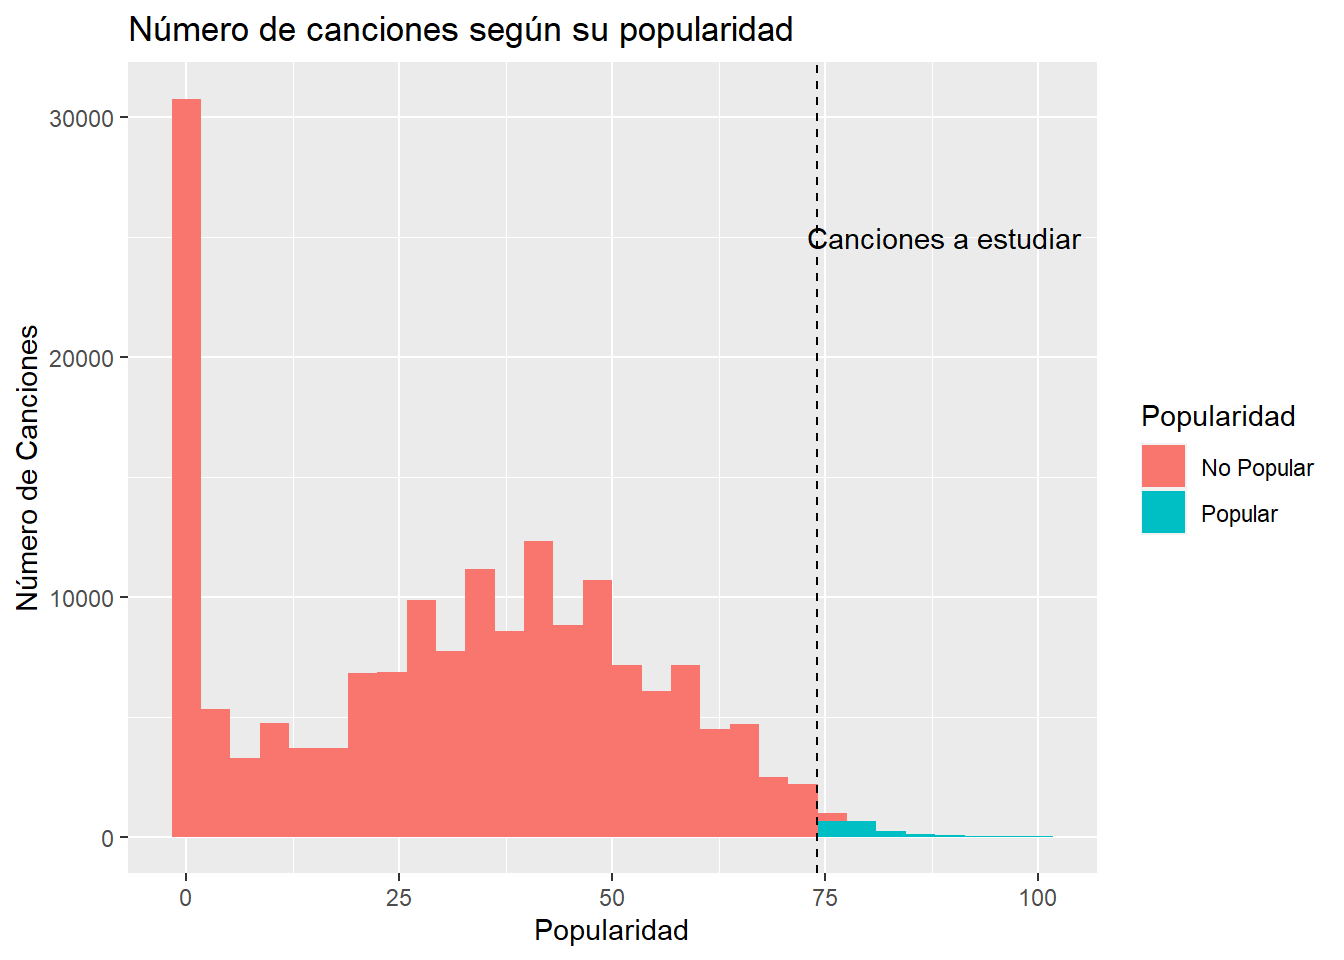
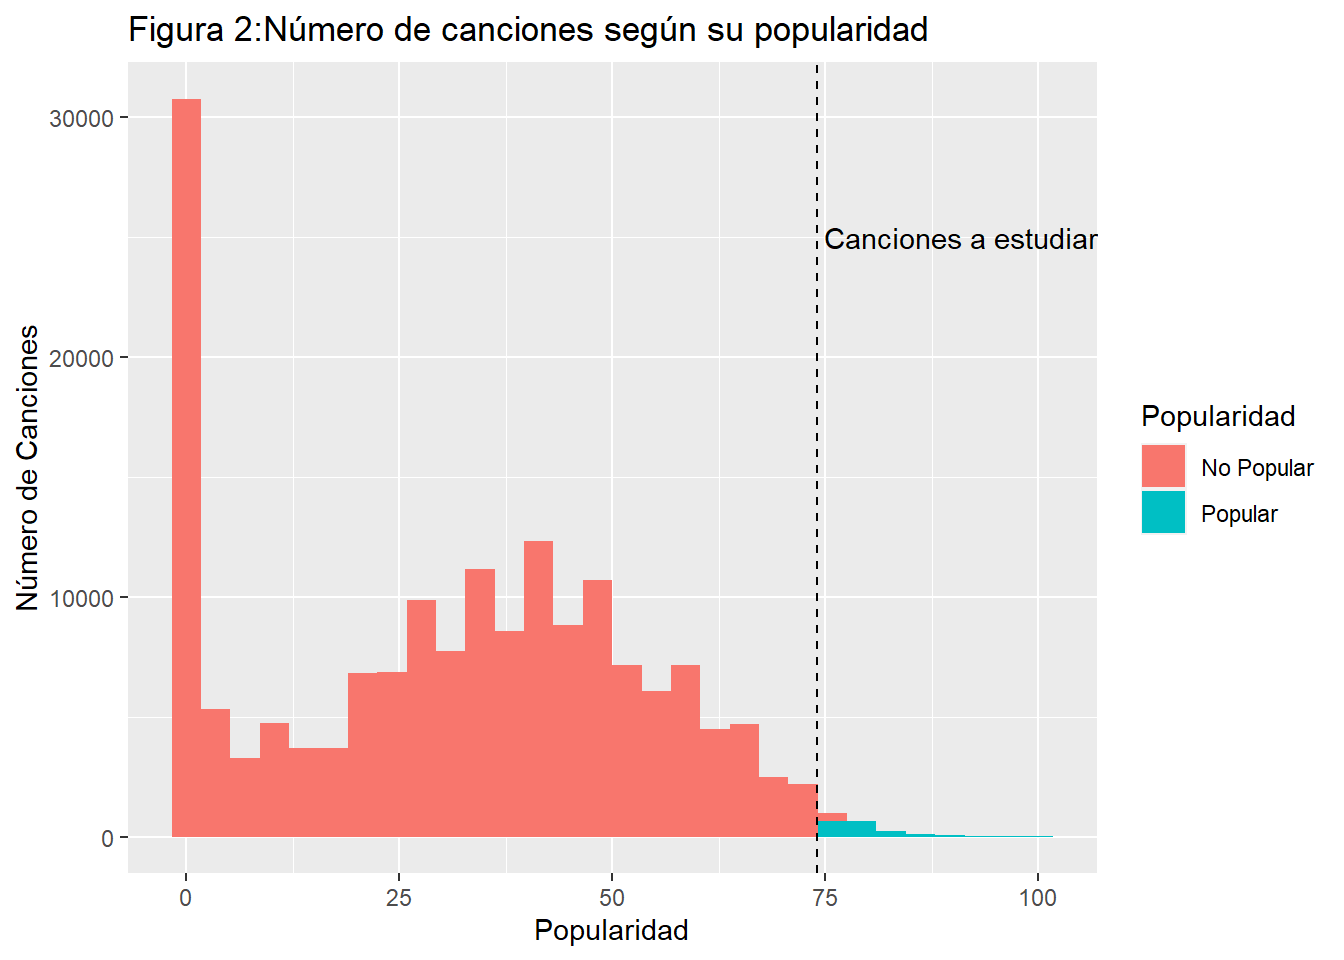
comentario en grafico 1(figura2)

Changed region(s): [[0.0938, 0.0, 0.6875, 0.0625], [0.5938, 0.2188, 0.8125, 0.2812]]

diff --git a/productos/introduccion.html b/productos/introduccion.html
@@ -15,69 +15,6 @@ span.underline{text-decoration: underline;}
 div.column{display: inline-block; vertical-align: top; width: 50%;}
 div.hanging-indent{margin-left: 1.5em; text-indent: -1.5em;}
 ul.task-list{list-style: none;}
-pre > code.sourceCode { white-space: pre; position: relative; }
-pre > code.sourceCode > span { display: inline-block; line-height: 1.25; }
-pre > code.sourceCode > span:empty { height: 1.2em; }
-.sourceCode { overflow: visible; }
-code.sourceCode > span { color: inherit; text-decoration: inherit; }
-div.sourceCode { margin: 1em 0; }
-pre.sourceCode { margin: 0; }
-@media screen {
-div.sourceCode { overflow: auto; }
-}
-@media print {
-pre > code.sourceCode { white-space: pre-wrap; }
-pre > code.sourceCode > span { text-indent: -5em; padding-left: 5em; }
-}
-pre.numberSource code
-  { counter-reset: source-line 0; }
-pre.numberSource code > span
-  { position: relative; left: -4em; counter-increment: source-line; }
-pre.numberSource code > span > a:first-child::before
-  { content: counter(source-line);
-    position: relative; left: -1em; text-align: right; vertical-align: baseline;
-    border: none; display: inline-block;
-    -webkit-touch-callout: none; -webkit-user-select: none;
-    -khtml-user-select: none; -moz-user-select: none;
-    -ms-user-select: none; user-select: none;
-    padding: 0 4px; width: 4em;
-    color: #aaaaaa;
-  }
-pre.numberSource { margin-left: 3em; border-left: 1px solid #aaaaaa;  padding-left: 4px; }
-div.sourceCode
-  {   }
-@media screen {
-pre > code.sourceCode > span > a:first-child::before { text-decoration: underline; }
-}
-code span.al { color: #ff0000; font-weight: bold; } /* Alert */
-code span.an { color: #60a0b0; font-weight: bold; font-style: italic; } /* Annotation */
-code span.at { color: #7d9029; } /* Attribute */
-code span.bn { color: #40a070; } /* BaseN */
-code span.bu { } /* BuiltIn */
-code span.cf { color: #007020; font-weight: bold; } /* ControlFlow */
-code span.ch { color: #4070a0; } /* Char */
-code span.cn { color: #880000; } /* Constant */
-code span.co { color: #60a0b0; font-style: italic; } /* Comment */
-code span.cv { color: #60a0b0; font-weight: bold; font-style: italic; } /* CommentVar */
-code span.do { color: #ba2121; font-style: italic; } /* Documentation */
-code span.dt { color: #902000; } /* DataType */
-code span.dv { color: #40a070; } /* DecVal */
-code span.er { color: #ff0000; font-weight: bold; } /* Error */
-code span.ex { } /* Extension */
-code span.fl { color: #40a070; } /* Float */
-code span.fu { color: #06287e; } /* Function */
-code span.im { } /* Import */
-code span.in { color: #60a0b0; font-weight: bold; font-style: italic; } /* Information */
-code span.kw { color: #007020; font-weight: bold; } /* Keyword */
-code span.op { color: #666666; } /* Operator */
-code span.ot { color: #007020; } /* Other */
-code span.pp { color: #bc7a00; } /* Preprocessor */
-code span.sc { color: #4070a0; } /* SpecialChar */
-code span.ss { color: #bb6688; } /* SpecialString */
-code span.st { color: #4070a0; } /* String */
-code span.va { color: #19177c; } /* Variable */
-code span.vs { color: #4070a0; } /* VerbatimString */
-code span.wa { color: #60a0b0; font-weight: bold; font-style: italic; } /* Warning */
 </style>
 
 
@@ -240,19 +177,13 @@ code span.wa { color: #60a0b0; font-weight: bold; font-style: italic; } /* Warni
 </tbody>
 </table>
 <p>Figura 1</p>
+<p>Es evidente que hay canciones que no sirven, en primera instancia, para el estudio que queremos hacer, por lo tanto, si queremos maximizar las probabilidades de que el producto sea exitoso debemos ver cuales son los que han llegado al resultado que estamos buscando, para ello veamos la Figura 2:</p>
 <div class="cell">
-<div class="sourceCode cell-code" id="cb1"><pre class="sourceCode r code-with-copy"><code class="sourceCode r"><span id="cb1-1"><a href="#cb1-1" aria-hidden="true" tabindex="-1"></a>datos<span class="sc">$</span>Popularidad<span class="ot">=</span><span class="fu">ifelse</span>(datos<span class="sc">$</span>popularity <span class="sc">&gt;</span><span class="dv">75</span>, <span class="st">"Popular"</span>,<span class="st">"No Popular"</span>)</span>
-<span id="cb1-2"><a href="#cb1-2" aria-hidden="true" tabindex="-1"></a>grafico1<span class="ot">=</span><span class="fu">ggplot</span>(<span class="at">data =</span> datos)<span class="sc">+</span></span>
-<span id="cb1-3"><a href="#cb1-3" aria-hidden="true" tabindex="-1"></a>  <span class="fu">geom_histogram</span>(<span class="fu">aes</span>(<span class="at">x=</span>datos<span class="sc">$</span>popularity, <span class="at">fill=</span>Popularidad),<span class="at">bins =</span> <span class="dv">30</span>)<span class="sc">+</span></span>
-<span id="cb1-4"><a href="#cb1-4" aria-hidden="true" tabindex="-1"></a>  <span class="fu">labs</span>(<span class="at">title=</span><span class="st">"Número de canciones según su popularidad"</span>,</span>
-<span id="cb1-5"><a href="#cb1-5" aria-hidden="true" tabindex="-1"></a>       <span class="at">x=</span><span class="st">"Popularidad"</span>, <span class="at">y=</span><span class="st">"Número de Canciones"</span>)<span class="sc">+</span></span>
-<span id="cb1-6"><a href="#cb1-6" aria-hidden="true" tabindex="-1"></a>  <span class="fu">geom_vline</span>(<span class="at">xintercept =</span> <span class="dv">74</span>,<span class="at">linetype=</span><span class="st">"dashed"</span>,<span class="at">color=</span><span class="st">"black"</span>)<span class="sc">+</span></span>
-<span id="cb1-7"><a href="#cb1-7" aria-hidden="true" tabindex="-1"></a>  <span class="fu">annotate</span>(<span class="st">"text"</span>, <span class="at">x =</span> <span class="dv">89</span>, <span class="at">y =</span> <span class="dv">25000</span>, <span class="at">label =</span> <span class="st">"Canciones a estudiar"</span>)</span>
-<span id="cb1-8"><a href="#cb1-8" aria-hidden="true" tabindex="-1"></a>grafico1</span></code><button title="Copy to Clipboard" class="code-copy-button"><i class="bi"></i></button></pre></div>
 <div class="cell-output-display">
 <p><img src="introduccion_files/figure-html/unnamed-chunk-2-1.png" class="img-fluid" width="672"></p>
 </div>
 </div>
+<p>Vemos que si el requisito mínimo para considerar una canción exitosa, es que tenga un valor sobre 75 en el indice de popularidad, y a simple vista se ve que la cantidad de obras que llegan a este número son muy pocas y que de hecho la mayoria de las canciones, se quedan cerca del 0.</p>
 </section>
 
 </main>
